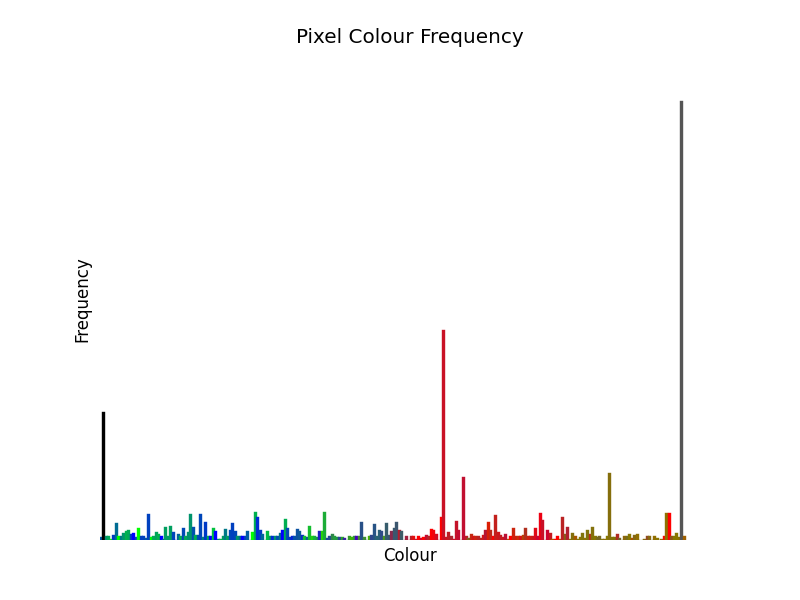
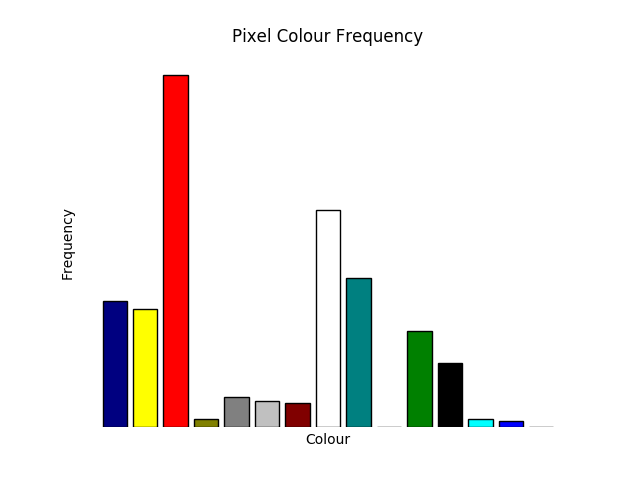
README redone, colour frequency made nicer.

Changed region(s): [[0.125, 0.1562, 0.875, 0.9375], [0.3438, 0.0312, 0.6562, 0.0938], [0.0938, 0.4375, 0.125, 0.5938]]

diff --git a/FlagAnalysis.py b/FlagAnalysis.py
@@ -7,8 +7,42 @@ from PIL import Image
 from matplotlib import pyplot as plt
 import os
 import sys
+import math
+import collections
+import numpy as np
+import progressbar as progressbar
 
-def create_avg_flag (images):
+# As per: https://htmlcolorcodes.com/
+# Since it looks ugly if we count the frequency
+# of every RGB combination, we instead "round"
+# the colours to the nearest of these common
+# colours.
+COMMON_COLOURS = np.array([
+    [255, 255, 255], # white
+    [192, 192, 192], # silver
+    [128, 128, 128], # gray
+    [  0,   0,   0], # black
+    [255,   0,   0], # red
+    [128,   0,   0], # maroon
+    [255, 255,   0], # yellow
+    [128, 128,   0], # olive
+    [  0, 255,   0], # lime
+    [  0, 128,   0], # green
+    [  0, 255, 255], # aqua
+    [  0, 128, 128], # teal
+    [  0,   0, 255], # blue
+    [  0,   0, 128], # navy
+    [255,   0, 255], # fuchsia
+    [128,   0, 128]  # purple
+])
+COMMON_COLOURS_MAP = [tuple(colour) for colour in COMMON_COLOURS]
+def euclidean_dist(rgb1, rgb2):
+    return math.sqrt(sum((rgb1[i] - rgb2[i])**2 for i in range(3)))
+
+def nearest_common_colour(rgb):
+    return min(COMMON_COLOURS, key=lambda c: euclidean_dist(rgb, c))
+
+def create_avg_flag(images):
     """
     Averages a list of images to form a new image, saves the result.
     Note: images must have the same dimensions.
@@ -46,38 +80,26 @@ def create_avg_flag (images):
                                
     avg.save('results/average_flag.jpg')
     
-def normalise_rgb(rgb):
-    """Puts values of rgb tuples in 0-1 range."""
-    s = rgb[0] + rgb[1] + rgb[2]
-    if s:
-        r = rgb[0] / s
-        g = rgb[1] / s
-        b = rgb[2] / s
-    else:
-        r, g, b = 0, 0, 0
-    return (r, g, b)
+def plot(images):
+    """Saves bar chart of pixel colour frequency."""
+    colour_count = collections.defaultdict(int)
 
-def plot (images):
-    """Saves bar chart of pixel colour frequency, small values are cut off."""
-    pixel_count = {}
+    for img in progressbar.progressbar(images):
+        pixels = np.array(img.convert('RGB').getdata())
+        # Messy code that gives a matrix D of size MxN, where
+        # Dij is the Euclidean distance between the ith pixel
+        # in the image and the jth common colour.
+        diffs = np.concatenate(
+                [np.sqrt(np.sum(np.square(pixels - colour), axis=1))
+                 for colour in COMMON_COLOURS]) \
+            .reshape((len(COMMON_COLOURS), len(pixels))).T
+        for i in np.argmin(diffs, axis=1):
+            colour_count[COMMON_COLOURS_MAP[i]] += 1
 
-    # Count pixels.
-    for n, img in enumerate(images):
-        print("#{0}".format(n+1))
-        for px in img.convert('RGB').getdata():
-            if pixel_count.get(px):
-                pixel_count[px] += 1
-            else:
-                pixel_count[px] = 1
-    
-    pairs = sorted([pair for pair in pixel_count.items()],
-                            key=lambda pair: pair[0][0])
-    colours = [normalise_rgb(pair[0]) for pair in pairs if pair[1] > 2000]
-    frequency = [pair[1] for pair in pairs if pair[1] > 2000]
-    
-    plt.bar(range(len(frequency)), frequency,
-            color=colours, edgecolor=colours
-            )
+    colours = [(rgb[0]/255, rgb[1]/255, rgb[2]/255) for rgb, _ in colour_count.items()]
+    counts = [f for _, f in colour_count.items()]
+
+    plt.bar(range(len(counts)), counts, color=colours, edgecolor=(0, 0, 0))
     plt.ylabel('Frequency')
     plt.xlabel('Colour')
     plt.title('Pixel Colour Frequency', y=1.02)
@@ -93,11 +115,6 @@ def plot (images):
     plt.savefig('results/barchart.png')
     
     plt.clf()
-    
-    # plt.pie(frequency, colors=colours)
-    # plt.title('Pixel Colour Frequency')
-    # plt.savefig('results/piechart.png')
-    
 
 def main():
     args = sys.argv[1:]
@@ -105,15 +122,14 @@ def main():
         print("usage: [--chart] [--avg]")
         sys.exit(1)
     
-    names = [('flags/' + name) for name in os.listdir('flags')]
+    names = sorted([('flags/' + name) for name in os.listdir('flags')])
     images = [Image.open(name) for name in names]
-    
+
     if '--chart' in args:
         plot(images)
-    
+
     if '--avg' in args:
         create_avg_flag(images)
-    
 
 if __name__ == '__main__':
 	main()

diff --git a/README.md b/README.md
@@ -1,6 +1,14 @@
 # FlagAnalysis
-Colour analysis of national flags.
 
-There are two interesting images in the `results/` folder:
-1. An "average" flag made by merging all national flags (i.e. at co-ordinate (0, 0) in the average flag, the value of the pixel is the average value of all pixels at (0, 0) in the national flags).
-2. A bar chart showing the percentage use of each colour on national flags. Red appears to have the strongest showing.
+### Questions
+* What happens when you average the pixels of all of the national flags in the world?
+* What are the most common colours in national flags?
+
+### Answers
+Average flag:
+
+![average flag](https://raw.githubusercontent.com/Kevinpgalligan/FlagAnalysis/master/results/average_flag.jpg)
+
+Colour distribution:
+
+TODO
